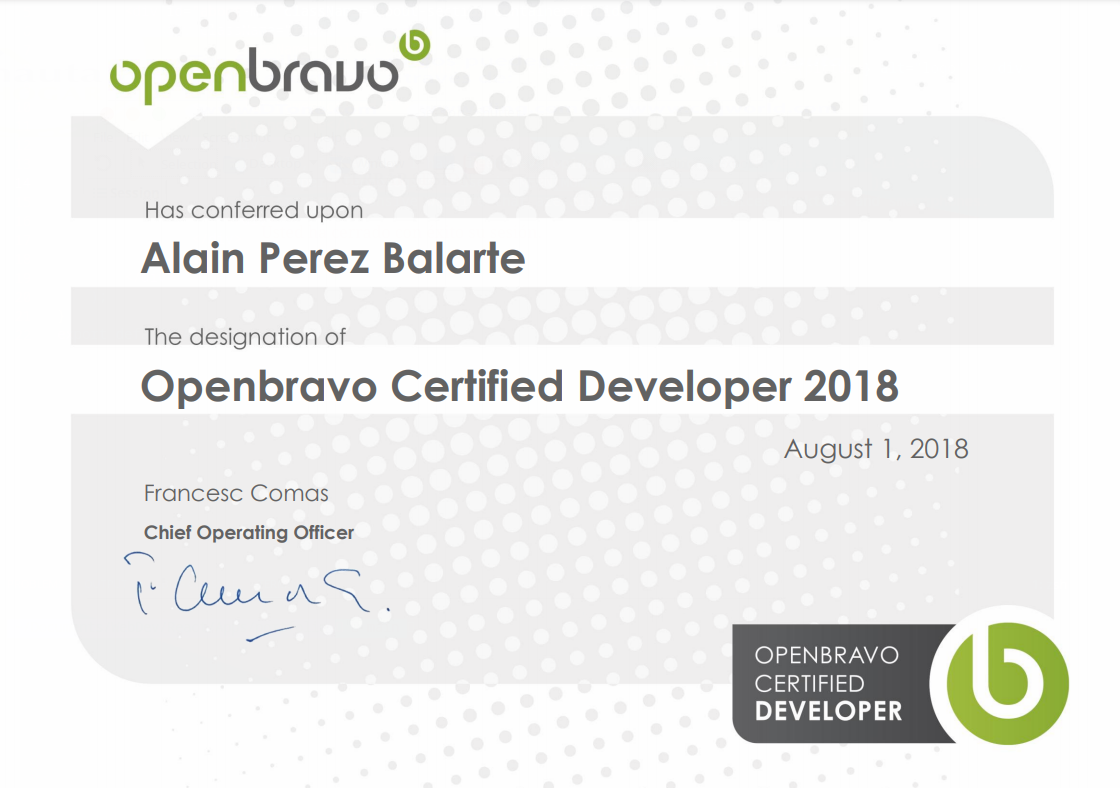
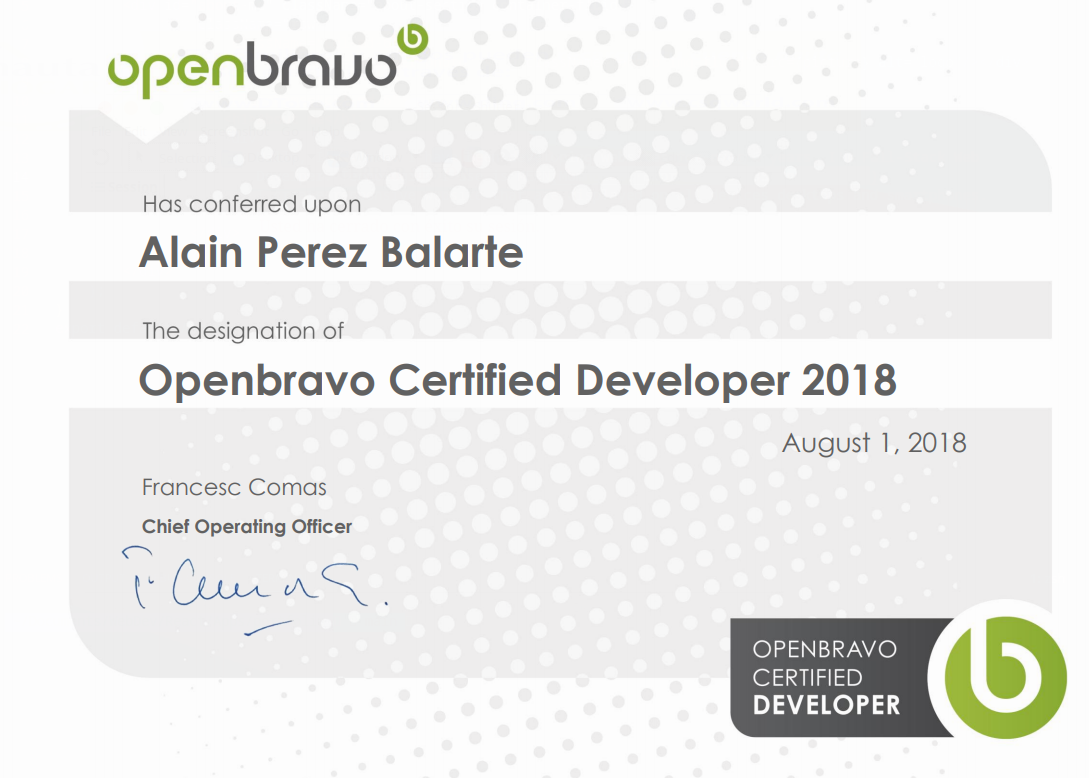
styles changes

diff --git a/src/components/AboutMe.js b/src/components/AboutMe.js
@@ -13,13 +13,13 @@ const About = () => {
                     <div>
                         Hello, I'm Alain, <br/>Bachelor's Degree in Computer Science 2000-2005.
                         I have been developing websites for over 8 years. I'm Full-Stack Web 
-                        Develper. Tecnologies I use is MERN(MomngoDB, Express, NodeJS and ReactJS).
+                        Developer. Tecnologies I use is MERN(MomngoDB, Express, NodeJS and ReactJS).
                         I create responsive website that are displayed on all devices desktops and smartphones. 
                         I'm currently a developer at <a href="https://www.openbravo.com/" target="blank">Openbravo</a>
-                        <img className="openbravo-certificate" alt="Certified Developer" 
-                            src={obCertificate}
-                            style={{width: "20rem"}}
-                        />
+                        <img alt="Certified Developer" 
+                            src={obCertificate} 
+                            style={{width:"80%", display: "block"}}                               
+                        />                        
                     </div>
                 </div>
             </div>

diff --git a/src/App.css b/src/App.css
@@ -165,6 +165,16 @@ nav ul li {
   margin: 0px 20px 50px 20px;  
   padding: 5px;
   border: 2px solid var(--primary-orange);
+  width: 263px;
+  position: relative;
+  overflow: hidden;
+}
+.portfolio-section .item img{
+  width: 100%;
+  transition: transform .5s ease;
+}
+.portfolio-section .item img:hover {
+  transform: scale(1.5);
 }
 /***************************** CONTACT ME***********************************************************/
 
